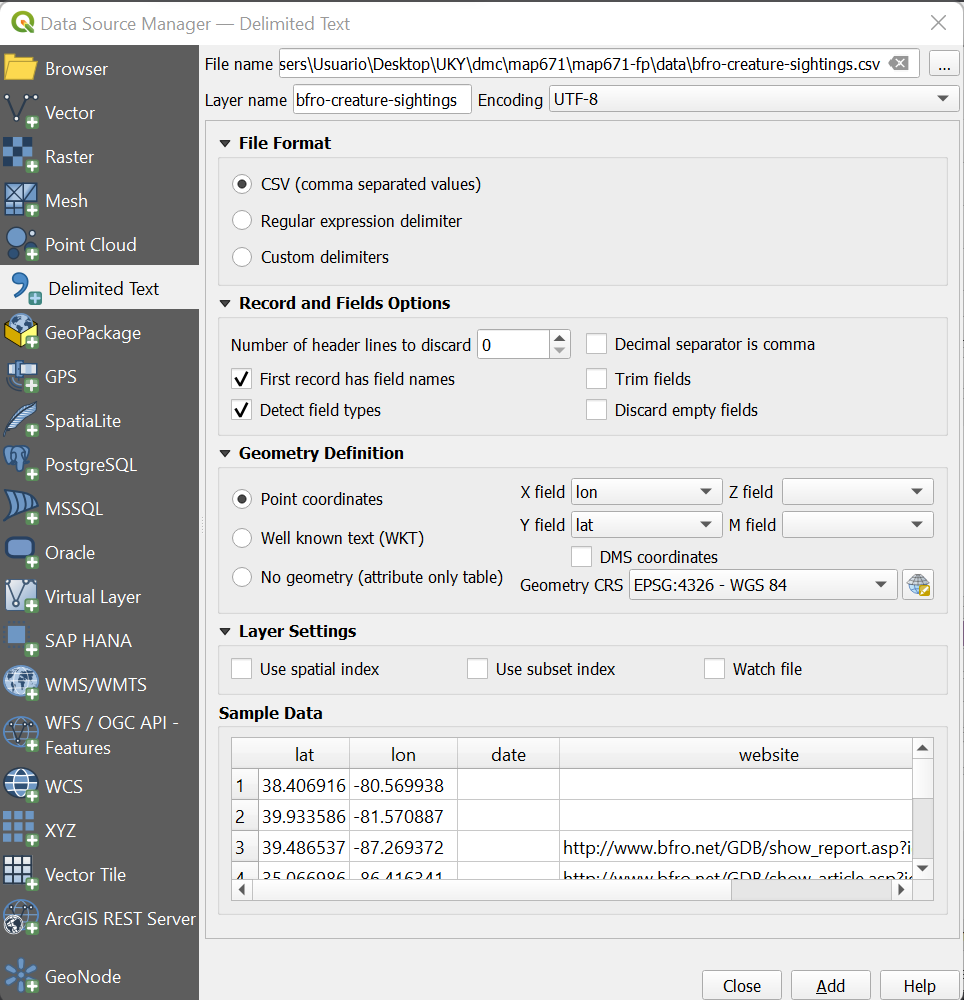
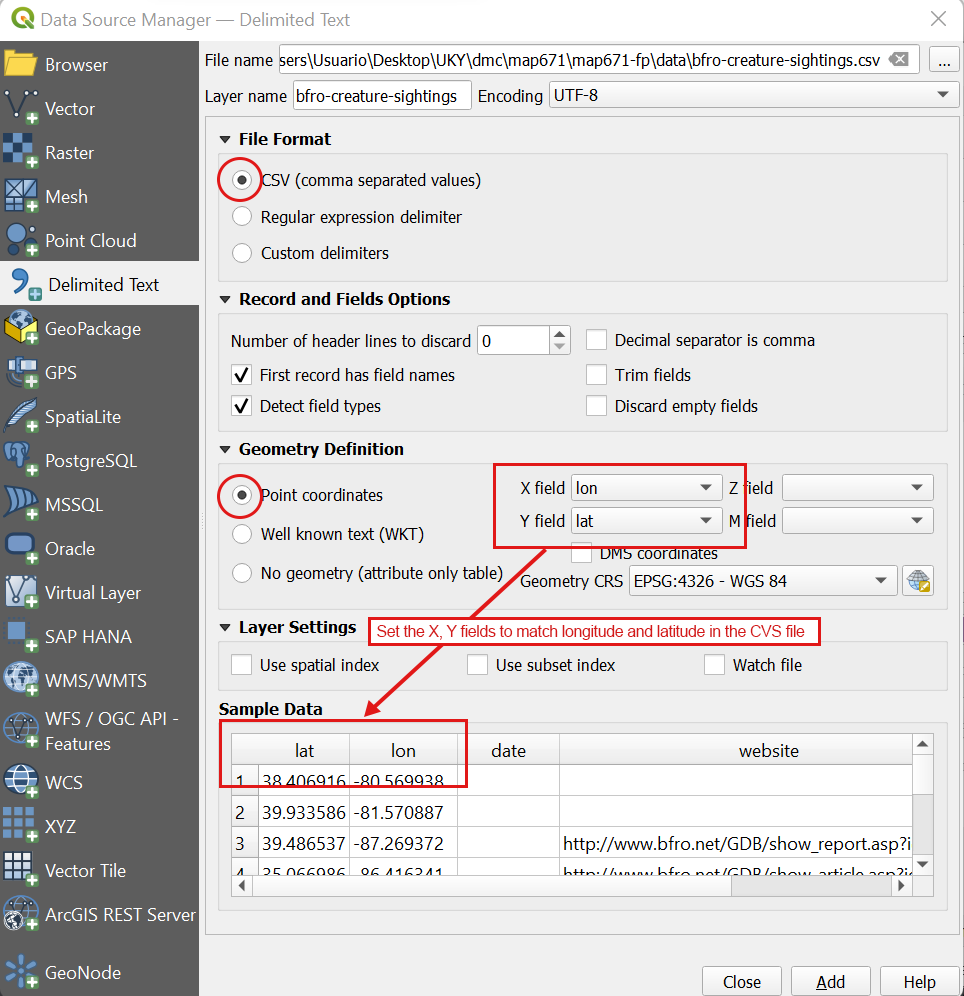
testsmallfigures

diff --git a/README.md b/README.md
@@ -33,7 +33,7 @@ Here you can download the prime CSV file and the final version of the database a
 * [us-clipped-bfro-creature-sightings.geojson](https://github.com/alexmunozviso/map671-fp/blob/main/data/us-clipped-bfro-creature-sightings.geojson)
 
 ![Fig 1&2](https://github.com/alexmunozviso/map671-fp/blob/main/img/fig1-2.png)
-*Fig. 1 (left): VS Code screenshot of the text file as downloaded from Mangani's Bigfoot Maps* | *Fig. 2 (right): VS Code screenshot of the final CSV file database*
+*Fig. 1 (left): VS Code screenshot of the text file as downloaded from Mangani's Bigfoot Maps* | *Fig. 2 (right): VS Code screenshot of the final CSV file database.*
 
 
 ### Other Data
@@ -52,11 +52,23 @@ Here you can download the prime CSV file and the final version of the database a
 The static maps were all created using QGIS. The CRS was set to ESRI: 102008 (North America Albers Equal Area Conic), as it is a standard projected coordinate system for mapping the contiguous United States. 
 
 First, I imported the CSV containing the Bigfoot sightings database as delimited text using the Data Source Manager (see Fig. 3). The data was then imported to QGIS as a point data layer. Then, I imported the  shapefiles downloaded from the US Census Bureau containing state and county boundaries. 
-![Fig 3](https://github.com/alexmunozviso/map671-fp/blob/main/img/fig3.png)
-*Fig. 3: Thanks to the data values re-organization seen in Fig. 2, the CSV file can be imported as a point layer through the lat/lon fields*
 
-Using the Vector geoprocessing tool 'Clip', I extracted those Bigfoot sightings within my database that happened in the contiguous US. I did so clipping 
+![Fig 3](https://github.com/alexmunozviso/map671-fp/blob/main/img/fig3copia.png)
+*Fig. 3: Thanks to setting the appropriate field names and data organization (see Fig. 2), the CSV file can be imported as a point layer by matching X,Y values with the lon,lat fields in the CSV.*
 
+Using the Vector geoprocessing tool 'Clip', I extracted those Bigfoot sightings within my database that happened in the contiguous United States. I did so by clipping the Bigfoot database the extent of one of the shapefiles obtained from the US Census Bureau. 
+
+![Fig 4](https://github.com/alexmunozviso/map671-fp/blob/main/img/fig4.png)
+*Fig. 4: On the left side you can see the values given to the 'Clip' tool. On the right side you can see the geoprocessing result. The brown points are the original imported data and the red ones are the resulting clipped ones.*
+
+After getting area information for my state/counties shapefiles using the 'Add geometry attributes' tool, I calculated a new field in their attribute table converting the 'Area' field (which is calculated in square meters) to square kilometers to ease future field calculations.
+
+The following step was to create a field containing unique values for each of the three layers so they can be joined later. I calculated a new field called 'Id' and filled with unique values (1,2,3,4,5,...) using the expression *$Id* in the field calculator expression box.
+
+Using these fields, 
+
+![Fig 5](https://github.com/alexmunozviso/map671-fp/blob/main/img/fig4.png)
+*Fig. 5: 'Id' field calculation.*
 
 ### Webmap
 
